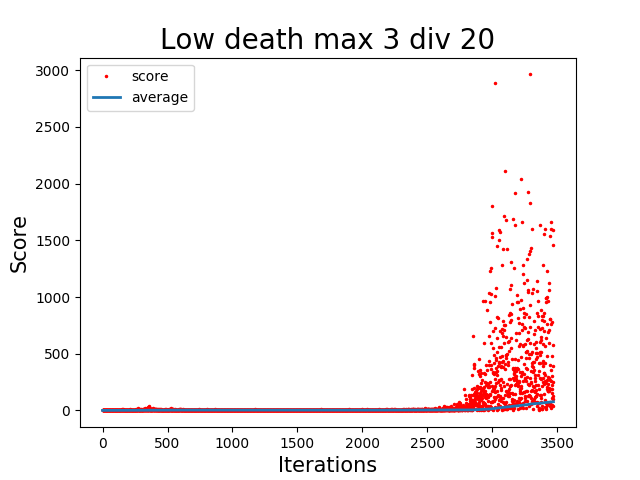
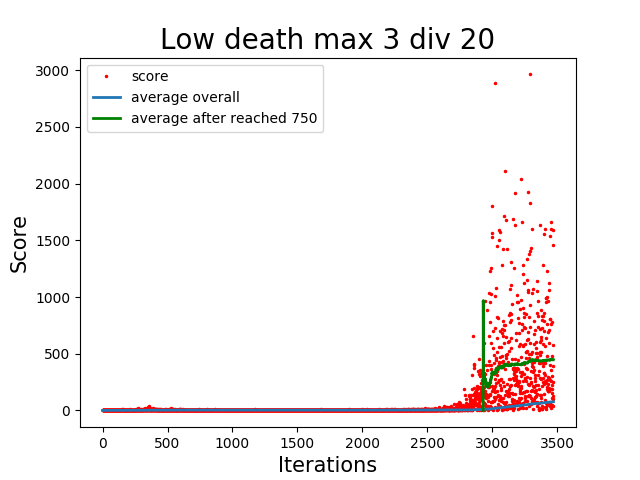
Add files via upload

Changed region(s): [[0.125, 0.1875, 0.5, 0.2812], [0.75, 0.625, 0.875, 0.8438]]

diff --git a/low_death max 3 divided by 20/ploting_scores.py b/low_death max 3 divided by 20/ploting_scores.py
@@ -26,17 +26,30 @@ n = len(x)
 
 timer = n * 1.5
 timer += sum(y)*0.6
-pretty_time = time.strftime('%d:%H:%M:%S', time.gmtime(timer))
-days = int(pretty_time.split(':')[0])
+pretty_time = time.strftime('%dd:%Hh:%Mm:%Ss', time.gmtime(timer))
+days = int(pretty_time.split(':')[0][:2])
 days = days-1
 pretty_time = str(int(days / 10))+str(int(days %10))+pretty_time[2:]
 
 
-print("Timer: ", pretty_time, "\nIterations: ", n, "\nAverage score: ", mean(y), )
 
+stable_x = 0
+for i in y:
+    if i > 750:
+        break
+    stable_x +=1
+
+stable_x_list = x[stable_x:]
+stable_y_list = y[stable_x:]
+avg_list_better = [mean_with_length(stable_y_list,i) for i in range(len(stable_y_list))]
+
+
+print("Timer: ", pretty_time, "\nIterations: ", n, "\nAverage overall: ", mean(y))
+print("Average after reached 750: ", mean(stable_y_list),"\nMax: ", max(y))
 
 plt.plot(x,y,'r.', label = 'score', ms = 3)
-plt.plot(x,avg_list, lw = 2, label = 'average')
+plt.plot(x,avg_list, lw = 2, label = 'average overall')
+plt.plot(stable_x_list, avg_list_better, label = 'average after reached 750', lw = 2, color = 'green')
 plt.xlabel('Iterations', fontsize = 15)
 plt.ylabel('Score', fontsize = 15)
 plt.title('Low death max 3 div 20', fontsize = 20)
